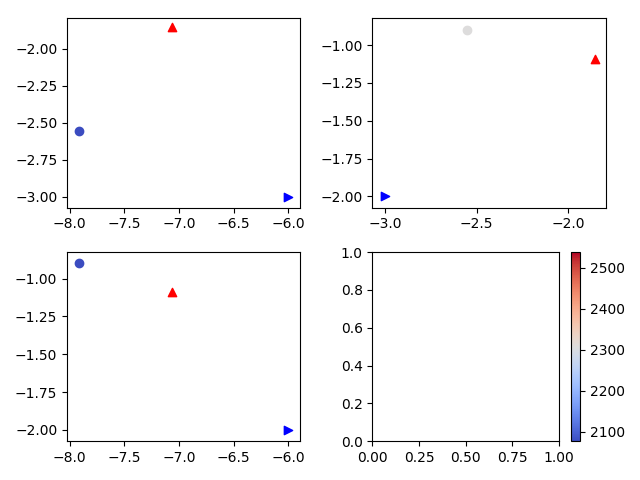
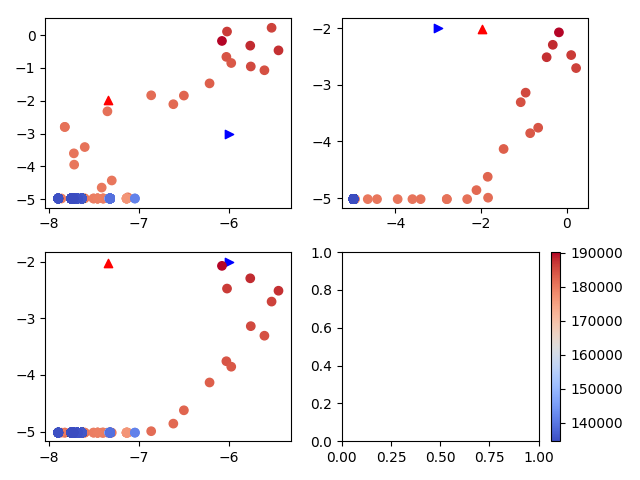
ran pso seeing results from necro model

diff --git a/simplepso/examples/necro_pso2.py b/simplepso/examples/necro_pso2.py
@@ -123,7 +123,7 @@ def run_example():
     # We also must set bounds. This can be a single scalar or an array of len(start_position)
     optimizer.set_bounds(parameter_range=3)
     optimizer.set_speed(speed_min=-.5, speed_max=.5)
-    optimizer.run(num_particles=25, num_iterations=100)
+    optimizer.run(num_particles=25, num_iterations=500)
     if plot:
         display(start_position, optimizer.best)
 
